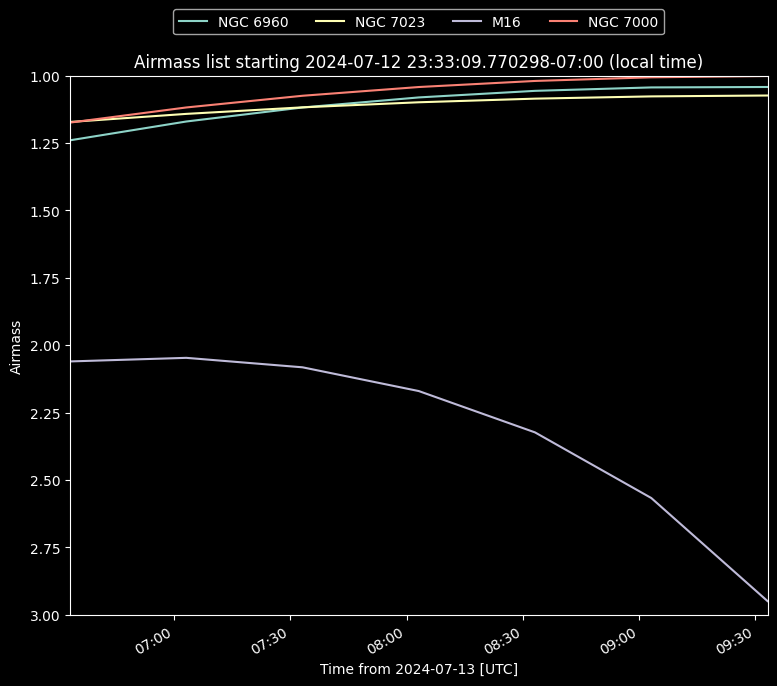
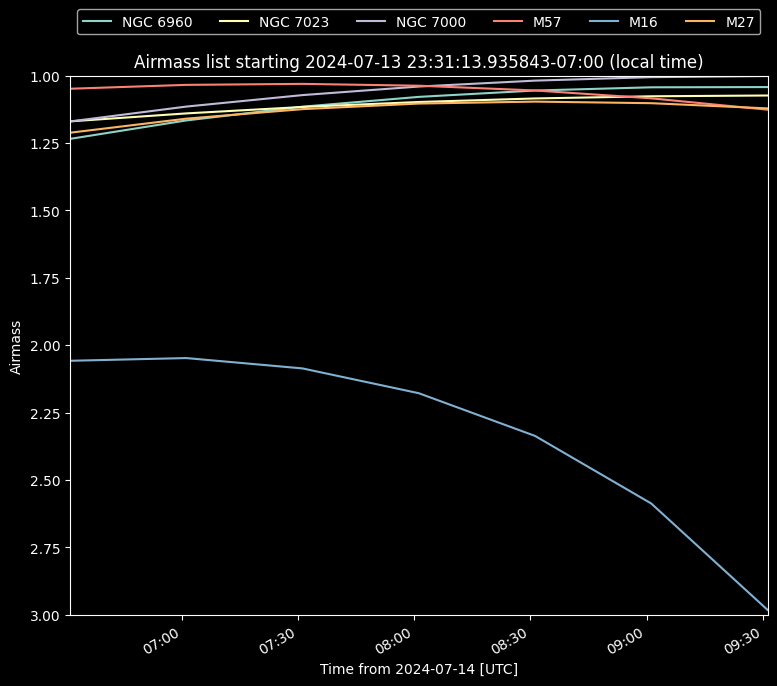
Added departure checklist instructions

diff --git a/src/mro/trips/jul11jul15.md b/src/mro/trips/jul11jul15.md
@@ -10,20 +10,87 @@ José, Naim, Parker, Ryan, Anika, Daniel
 
 > Characterize **Evora**, the iKon-M 934 camera that MRO uses as a CCD imaging camera, by obtaining extinction and transformation coefficients.
 
-Our plan is:
-1. At the start of each observing run, take 10 bias frames to act as "per-night calibration frames".
+While here, our plan is:
+- [ ] At the start of each observing run, take 10 bias frames to act as "per-night calibration frames".
+	- [x] Thurs. 11
+	- [x] Fri. 12
+	- [x] Sat. 13
+	- [ ] Sun. 14
+- [x] Create a set of <20 dome flats to find the shortest accurate shutter speed without seeing the remnants of the shutter. 
+	- Done Sat. 13
+- [x] Create a set of <15 sky flats to show linearity from minimum to CCD saturation.
+	- Done Sat. 13
+- [x] Take a few darks to estimate Evora's dark current in counts / min.
+	- Done Fri. 12 & Sat. 13
+- [x] Take 5 dome flats in $B$ and $V$ filters at around 80% of the point that nonlinearity begins (around 40,000?)
+	- Done Sat. 13
+- [x] Take 5 sky flats in $B$ and $V$ filters around 80% of the nonlinearity point (similar to dome flats)
+	- Done Sat. 13
+- [x] Observe an extinction star field over the course of several airmasses
+	- Thurs. 11 & Fri. 12
+- [x] Observe standard stars at the lowest possible airmass
+	- Done Fri. 12
+
+... and to observe some DSOs of interest. 
 
 ### Possible Interesting Objects
 
-|               | Veil Nebula | Iris Nebula | **Eagle Nebula** | **North American Nebula** |
-| ------------- | ----------- | ----------- | ---------------- | ------------------------- |
-| **Alt. Name** | NGC 6960    | NGC 7023    | M16              | NGC 7000                  |
+|               | Veil Nebula | Iris Nebula | **Eagle Nebula** | **North American Nebula** | **Ring Nebula** | **Dumbbell Nebula** |
+| ------------- | ----------- | ----------- | ---------------- | ------------------------- | --------------- | ------------------- |
+| **Alt. Name** | NGC 6960    | NGC 7023    | M16              | NGC 7000                  | M57             | M27                 |
 
 ![](images/trip1-poi.png)
 
 
-## Fri. June 11
+## Thurs. June 11
 
-Stopped by Uwijimaya and Fred Meyer along the way to collect supplies for 5 nights' stay. Started off by making sushi rolls!
+Stopped by Uwijimaya and Fred Meyer along the way to collect supplies for 5 nights' stay. It's nice out today - the skies are clear, temperatures high 70s. No bugs onsight in the observatory which was a welcome change. Started our epic dinner saga off by making sushi rolls!
 
-[sushi roll pics]
+(pics)
+
+After sunset, we started by calibrating the telescope. An issue that came up early in the night was that, for some reason after *updating pointing* to a target (i.e. once we got lined up with Vega), the telescope would stop tracking (without indicating such on Bifrost). This was resolved by just stopping and starting tracking again - still, curious. 
+
+Spent a few hours focusing the telescope and making sure it was pointing alright. Spent the remainder of the night taking pictures of GD 336. 
+
+## Fri. June 12
+
+Quiet day today. Folks started waking up around noon - we added the spare darkroom monitor to the observing room to try getting some more real-estate on Sleipnir. 
+
+Garlic brown butter tilapia for dinner - Ryan made some rice and Anika a salad to accompany our meal. Observations started tonight with little fuss - we continued with our extinction field GD 336 initially, then stars in our standard field SA38. 
+
+![](images/airmass-gd336.png)
+
+We noticed around 2:00 AM that the red lights in the dome might've been visible in the images themselves (tested with on and off) - decided to keep them on since they'd been on for the whole night thus far. More testing needed.
+
+![](images/redlight.png)
+**Left**: SA38 with lights on. **Right**: SA38 with lights off. 
+
+To end the night, grabbed some pictures of the Dumbbell Nebula (M27) and the Ring Nebula (M57).
+
+## Sat. Jul 13
+
+Waffles for breakfast - started a Smash Bros Subspace Emissary campaign today within which we *led a campaign of carnage* (on normal mode).
+
+Later, using [SIRIL](https://siril.org/), I processed our pictures of M57 in false color ($H\alpha$ to red, $B$ to blue and $G$ to green):
+
+![](images/M57-mro.png)
+
+And the dumbbell nebula using a similar process
+
+![](images/dumbbell-mro.png)
+
+We hadn't applied our calibration frames yet, so I wonder how different they'd look if we did - let's try it once we get the master frames set up. Also each of these was only a combination of the 3 exposures - I wonder if we did a whole bunch of exposures whether we'd get a much higher SNR. 
+
+**Wishlist item**: a nonrelative focusing mechanism! The focus seems to "drift" overnight and it can be hard to know when we're on target.
+
+At sunset, we took our sky flats, then some dome flats and darks to finish up our first project report. Since we still had an hour or so until astronomical twilight, we tried training the telescope on the Moon - and saw something!
+
+(moon pics)
+
+Since the Evora control software was modified to allow <1s exposure times, we were able to take ~0.3s exposures of the lunar limb. After this, we sat down and watched the first Alien. 
+
+> Fun fact, the actor who played Bilbo Baggins in the Lord of the Rings (Ian Holm) was the same who played the science officer, Ash. 
+## Sun. Jul 14
+
+Cinnamon rolls in the AM, then more Smash. Swamp is a hard level. 
+

diff --git a/src/mro/checklist.md b/src/mro/checklist.md
@@ -17,3 +17,25 @@
 	1. Initialize and set temperature to **-82° C**. 
 
 See [Telescope Setup & Calibration](telescope_setup.md) for information on preparing the telescope for observation.
+
+## Departure
+
+1. [ ] **Put away all media items** (books, games, cables) in living room & observing room.
+2. [ ] **Kitchen**:
+	1. [ ] Wash dishes & clean up kitchen - wipe the sink down too.
+	2. [ ] Collect trash & recycling to bring back.
+4. [ ] **Restrooms** - clean restrooms, wash toilets & sinks, sweep the floors. 
+5. [ ] **Cleaning the floors** - vacuum floor upstairs, sweep floor downstairs. 
+6. [ ] **Water cleanup**:
+	1. [ ] Measure water level and log it in the Google Doc.
+	2. [ ] Remove tube from water jug under sink & seal it.
+8. **Electricity**:
+	1. [ ] Turn off water pump circuit breaker.
+	2. [ ] Unplug appliances & turn off power strips (don't turn off observing room computers). 
+	4. [ ] Turn off lights.
+	5. [ ] Turn all thermostats off.
+9. [ ] **Groceries** - take pictures of inventories - note anything the next group should pick up from the store.
+10. [ ] **Water jugs** - put empty blue water jugs and empty clear plastic gallon jugs (if you can fit them) in car. 
+11. [ ] Close living room shutters & all interior doors, and lock them.
+
+> This guide is shortened from the official version, available at [https://sites.google.com/a/uw.edu/mro/checklist](https://sites.google.com/a/uw.edu/mro/checklist).
